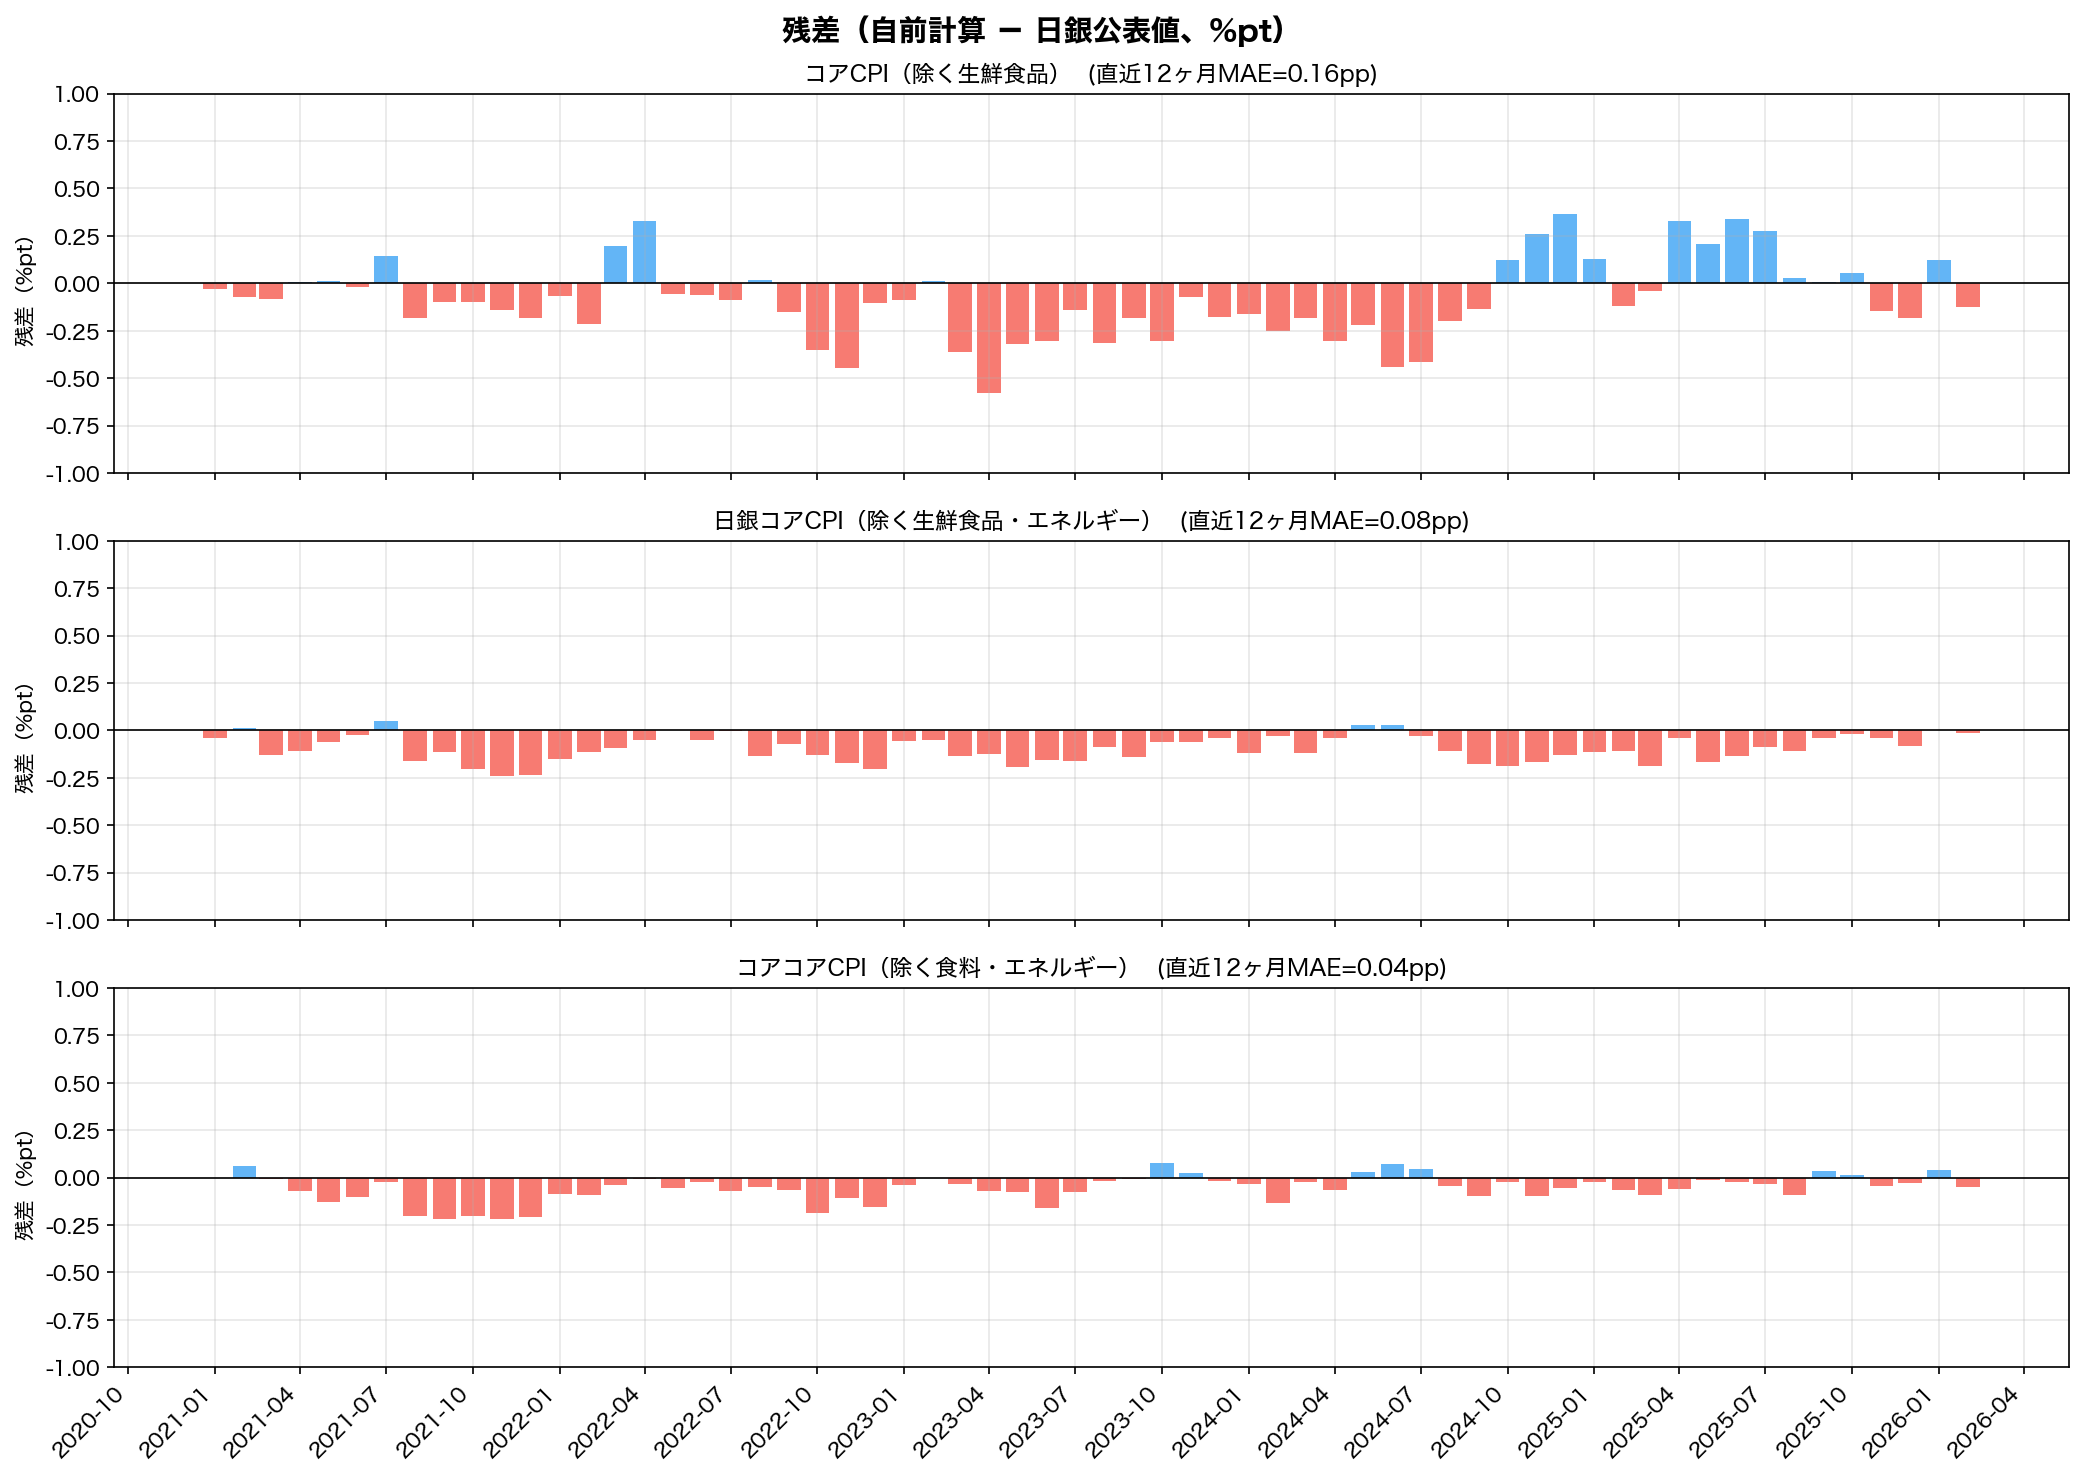
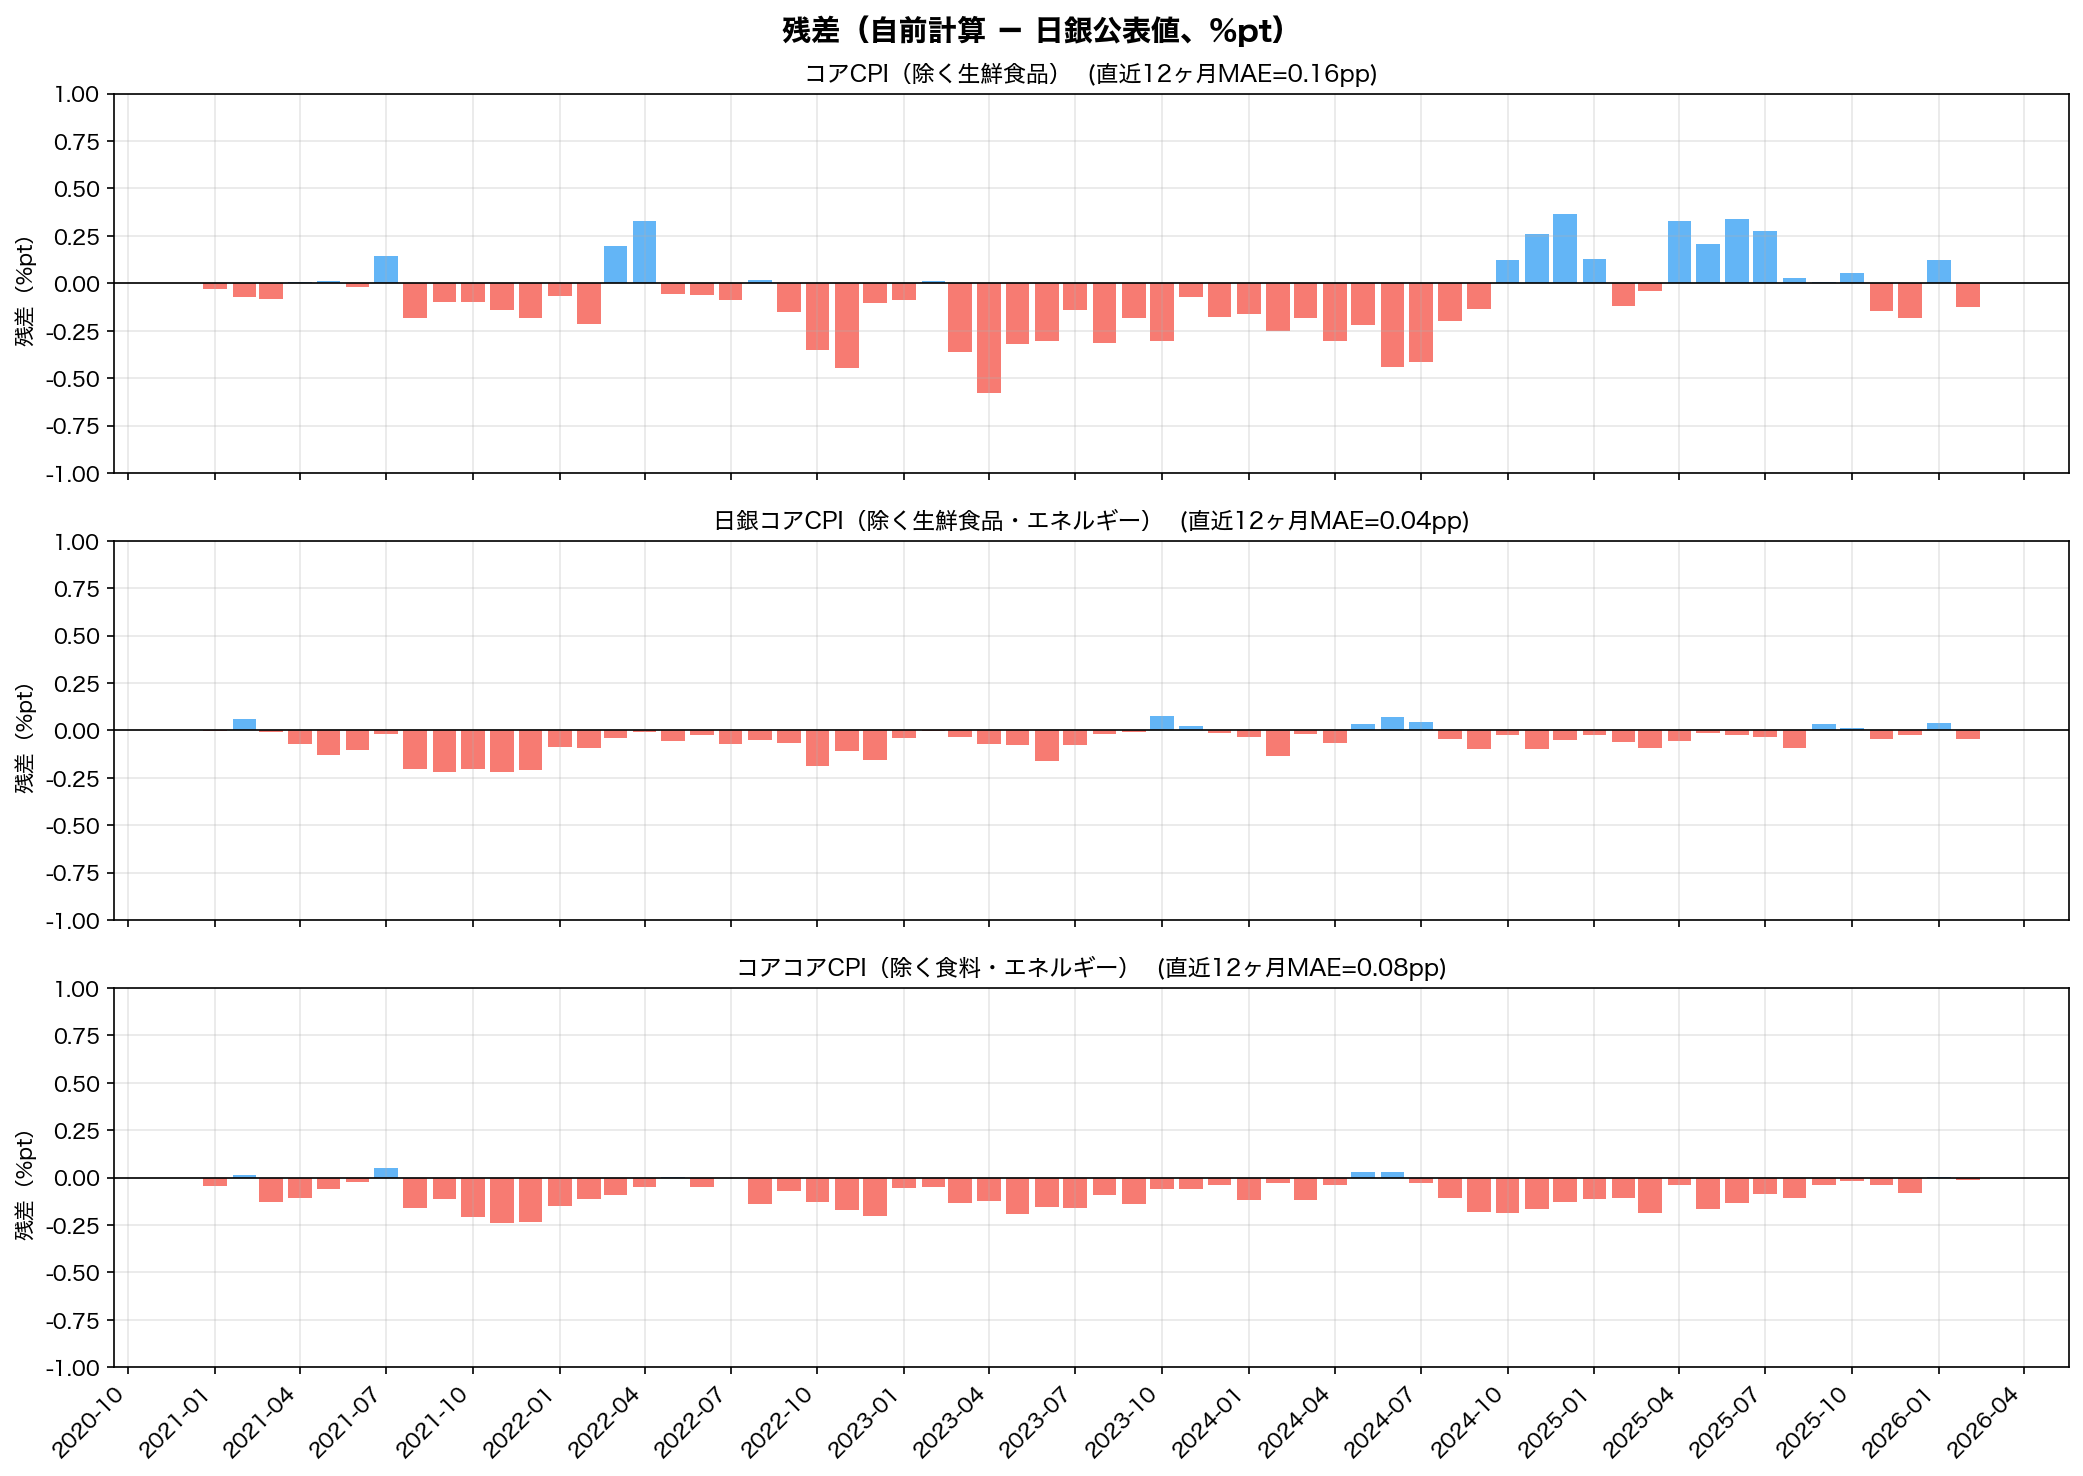
Fix chart order: core → boj_core(日銀コア) → core_core(コアコア)

diff --git a/scripts/plot_results.py b/scripts/plot_results.py
@@ -45,8 +45,8 @@ def main():
 
     boj_map = {
         "core": ("core_ex_special", "コアCPI（除く生鮮食品）"),
-        "core_core": ("core_core_ex_special", "日銀コアCPI（除く生鮮食品・エネルギー）"),
-        "boj_core": ("boj_core_ex_special", "コアコアCPI（除く食料・エネルギー）"),
+        "boj_core": ("boj_core_ex_special", "日銀コアCPI（除く生鮮食品・エネルギー）"),
+        "core_core": ("core_core_ex_special", "コアコアCPI（除く食料・エネルギー）"),
     }
 
     # --- 図1: 3系列の前年比比較 ---
